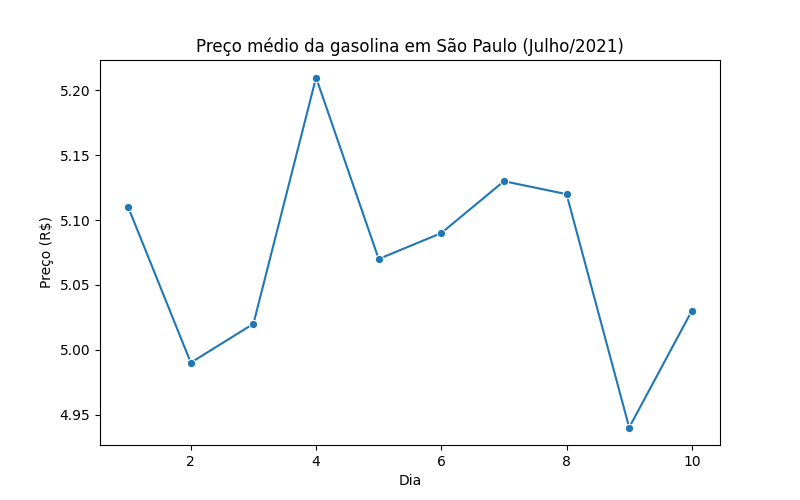
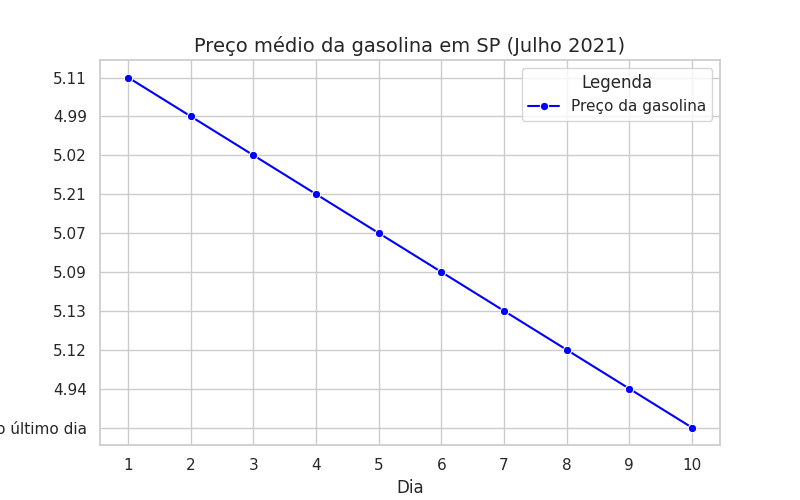
Adicionando base, código Python e gráfico da gasolina

diff --git a/gasolina.py b/gasolina.py
@@ -3,20 +3,13 @@ import pandas as pd
 import seaborn as sns
 import matplotlib.pyplot as plt
 
-# lendo o arquivo com os preços da gasolina
-df = pd.read_csv("gasolina.csv")
-
-# criando o gráfico de linha (dia no eixo x e preço no eixo y)
-plt.figure(figsize=(8, 5))
-sns.lineplot(data=df, x="dia", y="venda", marker="o")
-
-# adicionando título e rótulos para deixar mais claro
-plt.title("Preço médio da gasolina em São Paulo (Julho/2021)")
-plt.xlabel("Dia")
-plt.ylabel("Preço (R$)")
-
-# salvando a imagem do gráfico em um arquivo
+df = pd.read_csv('gasolina.csv')
+sns.set(style="whitegrid")
+plt.figure(figsize=(8,5))
+sns.lineplot(data=df, x='dia', y='venda', marker='o', color='blue', label='Preço da gasolina')
+plt.title("Preço médio da gasolina em SP (Julho 2021)", fontsize=14)
+plt.xlabel("Dia", fontsize=12)
+plt.ylabel("Preço (R$)", fontsize=12)
+plt.legend(title='Legenda')
+plt.xticks(df['dia'])
 plt.savefig("gasolina.png")
-
-# mostrando o gráfico na tela
-plt.show() 
